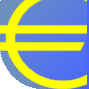
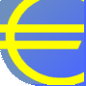
master: harbour store fixes
* wrong pixel size (needs to be 86x86)
* an unused qml file was removed (it was using QtQuick 1.0)

Changed region(s): [[0.3488, 0.9767, 0.907, 1.0]]

diff --git a/qml/qmllogger/main.qml b/qml/qmllogger/main.qml
@@ -1,4 +1,4 @@
-import QtQuick 1.1
+import QtQuick 2.0
 import "Logger.js" as Console
 
 Rectangle {
